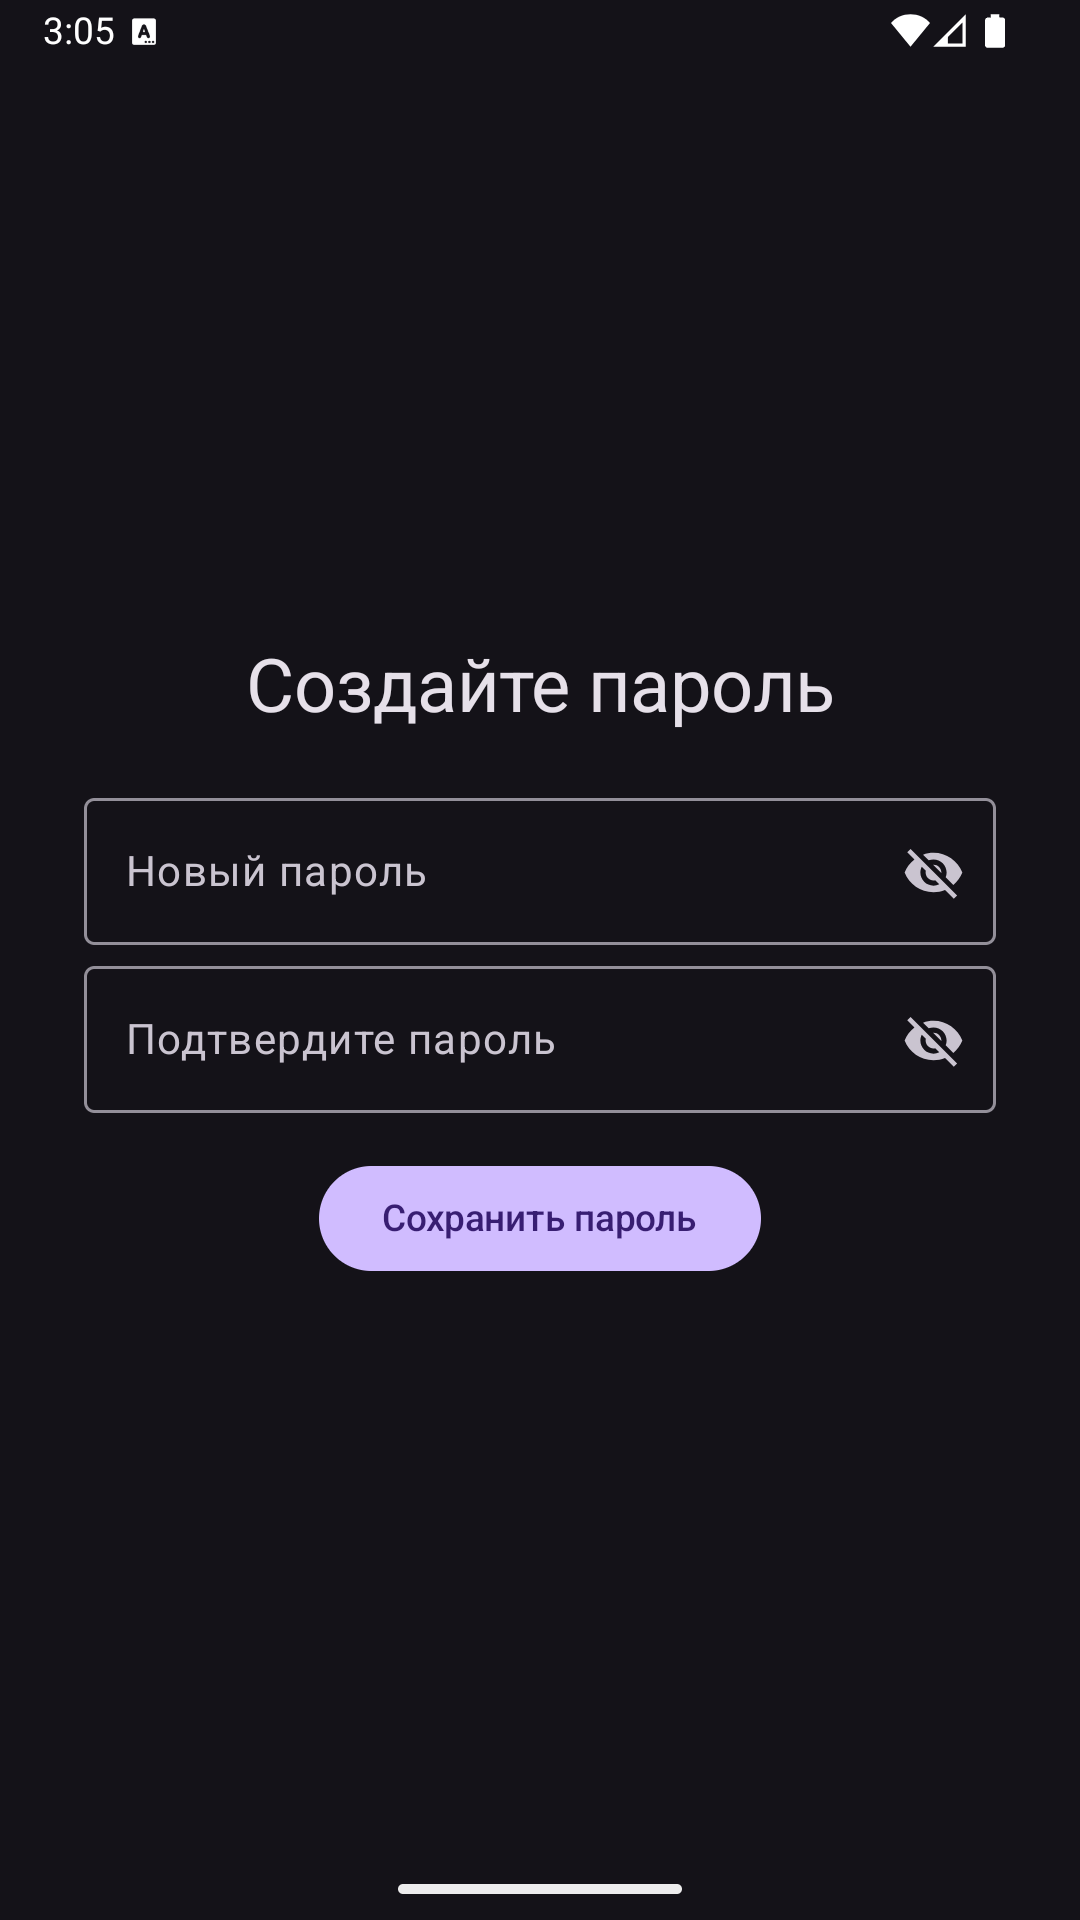
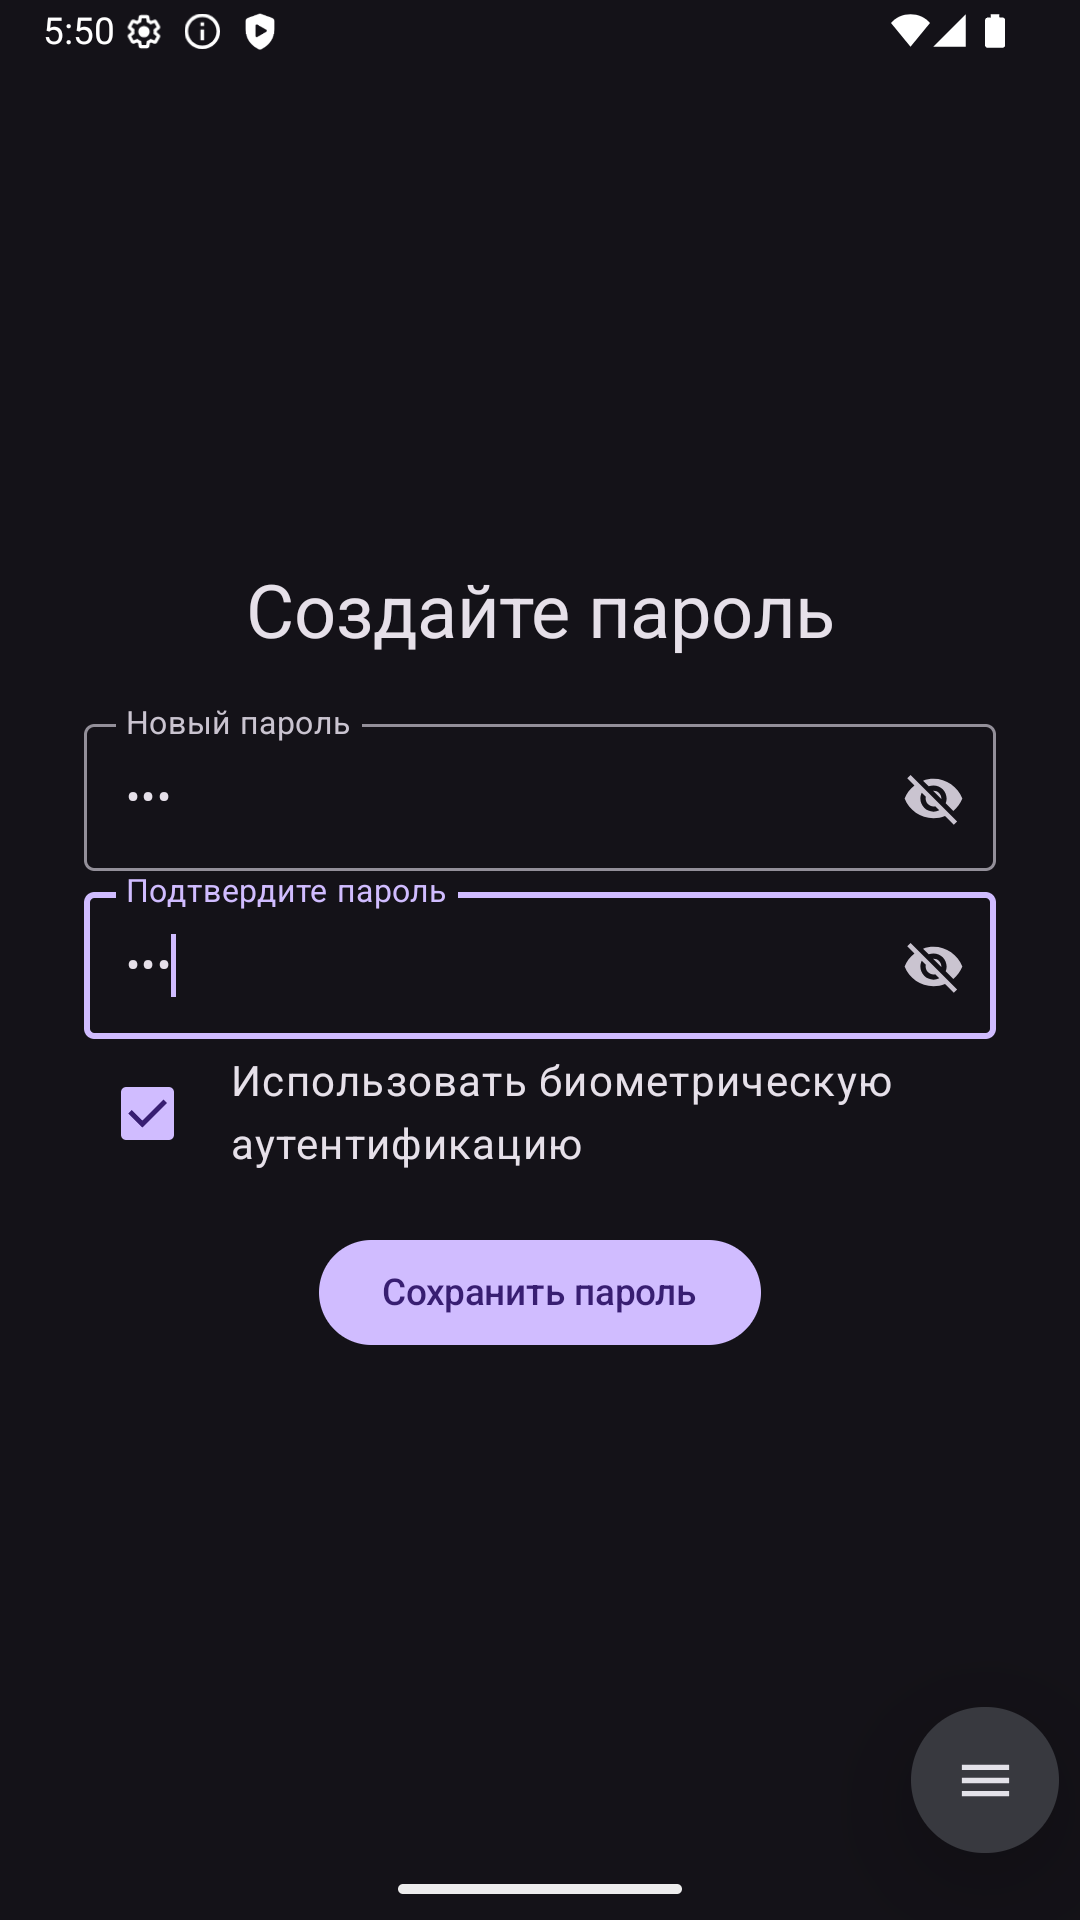
Исправлена ошибка при которой запрашивалась биометрия ошибочно без установки пароля

diff --git a/app/src/main/java/ru/kuzmin/passwordgenerator/ui/screens/settings/AppSettingsScreen.kt b/app/src/main/java/ru/kuzmin/passwordgenerator/ui/screens/settings/AppSettingsScreen.kt
@@ -24,7 +24,9 @@ import androidx.compose.runtime.remember
 import androidx.compose.runtime.setValue
 import androidx.compose.ui.Alignment
 import androidx.compose.ui.Modifier
+import androidx.compose.ui.text.font.FontWeight
 import androidx.compose.ui.unit.dp
+import androidx.compose.ui.unit.sp
 
 @OptIn(ExperimentalMaterial3Api::class)
 @SuppressLint("UnusedMaterial3ScaffoldPaddingParameter")
@@ -38,7 +40,7 @@ fun SecuritySettings(
     Scaffold(
         topBar = {
             TopAppBar(
-                title = { Text("Настройки безопасности") },
+                title = { Text("Настройки") },
                 navigationIcon = {
                     IconButton(onClick = onBack) {
                         Icon(Icons.AutoMirrored.Filled.ArrowBack, "Назад")
@@ -46,20 +48,29 @@ fun SecuritySettings(
                 }
             )
         }
-    ) {
+    ) { innerPadding ->
         Column(
             modifier = Modifier
                 .fillMaxSize()
-                .padding(16.dp),
+                .padding(innerPadding),
             horizontalAlignment = Alignment.CenterHorizontally,
-            verticalArrangement = Arrangement.Center
+            verticalArrangement = Arrangement.Top
         ) {
-            Card(
-                modifier = Modifier.fillMaxWidth()
-            ) {
+            Card {
                 Column(
                     modifier = Modifier.padding(16.dp)
                 ) {
+                    Row(
+                        verticalAlignment = Alignment.CenterVertically,
+                        modifier = Modifier.padding(vertical = 8.dp)
+                    ) {
+                        Text(
+                            text = "Безопасность",
+                            fontSize = 16.sp,
+                            fontWeight = FontWeight.Bold,
+                            modifier = Modifier.fillMaxWidth()
+                        )
+                    }
                     Row(
                         verticalAlignment = Alignment.CenterVertically,
                         modifier = Modifier.padding(vertical = 8.dp)

diff --git a/app/src/main/java/ru/kuzmin/passwordgenerator/ui/screens/materpass/MasterPasswordScreen.kt b/app/src/main/java/ru/kuzmin/passwordgenerator/ui/screens/materpass/MasterPasswordScreen.kt
@@ -18,7 +18,6 @@ import androidx.compose.material3.Icon
 import androidx.compose.material3.IconButton
 import androidx.compose.material3.MaterialTheme
 import androidx.compose.material3.OutlinedTextField
-import androidx.compose.material3.Switch
 import androidx.compose.material3.Text
 import androidx.compose.runtime.Composable
 import androidx.compose.runtime.LaunchedEffect
@@ -39,6 +38,7 @@ import androidx.lifecycle.viewModelScope
 import kotlinx.coroutines.flow.launchIn
 import kotlinx.coroutines.flow.onEach
 import ru.kuzmin.passwordgenerator.security.BiometricAuthHelper
+import ru.kuzmin.passwordgenerator.ui.screens.generate.CheckboxOption
 
 @Composable
 fun PasswordScreen(
@@ -63,7 +63,7 @@ fun PasswordScreen(
     }
 
     LaunchedEffect(Unit) {
-        if (viewModel.isBiometricEnabled()) {
+        if (uiState == PasswordUiState.PasswordExists && viewModel.isBiometricEnabled()) {
             biometricAuthHelper.showBiometricPrompt(activity)
         }
     }
@@ -122,14 +122,14 @@ fun PasswordScreen(
                     )
                 }
 
-                Switch(
+                CheckboxOption(
+                    text = "Использовать биометрическую аутентификацию",
                     checked = isBiometricEnabled,
                     onCheckedChange = {
                         isBiometricEnabled = it
                         viewModel.setBiometricAuth(it)
                     }
                 )
-                Text("Использовать биометрическую аутентификацию")
 
                 Button(
                     onClick = {
